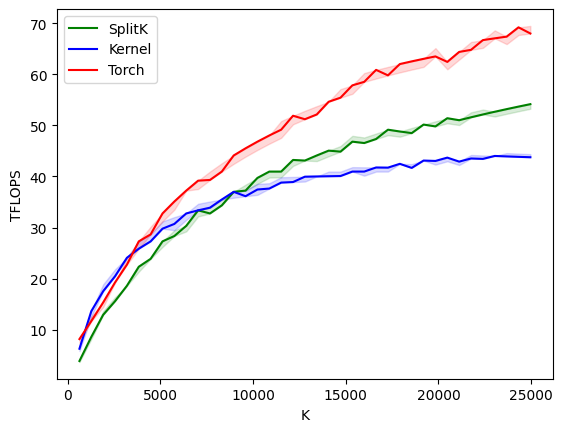
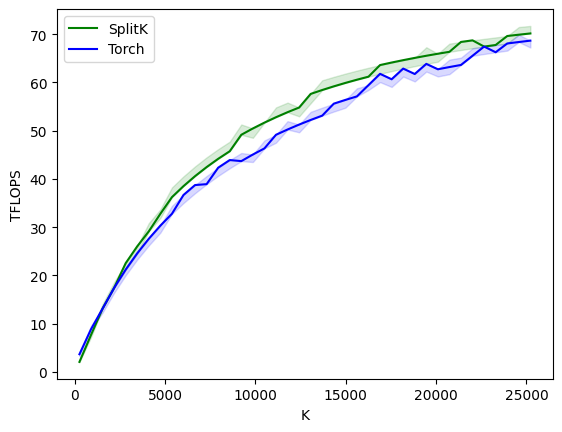
updated with better split k

diff --git a/split_k/split_k.py b/split_k/split_k.py
@@ -2,6 +2,7 @@ import torch
 import triton
 import triton.language as tl
 
+
 @triton.jit
 def _splitk_kernel(A, B, C, M, N, K,
             stride_am, stride_ak,
@@ -10,79 +11,67 @@ def _splitk_kernel(A, B, C, M, N, K,
             BLOCK_M: tl.constexpr, BLOCK_N: tl.constexpr, BLOCK_K: tl.constexpr,
             GROUP_M: tl.constexpr, SPLIT_K: tl.constexpr,
             ):
-    # matrix multiplication
-    pid = tl.program_id(0)
-    pid_k = tl.program_id(1)
-    grid_m = tl.cdiv(M, BLOCK_M)
-    grid_n = tl.cdiv(N, BLOCK_N)
-    # re-order program ID for better L2 performance
-    width = GROUP_M * grid_n
-    group_id = pid // width
-    group_size = min(grid_m - group_id * GROUP_M, GROUP_M)
-    pid_m = group_id * GROUP_M + (pid % group_size)
-    pid_n = (pid % width) // (group_size)
-    # do matrix multiplication
+    
+    """
+    Performs matrix multiplication using the split K algorithm.
+    C = A @ B
+
+    A: (M, K) input matrix
+    B: (K, N) input matrix
+    C: (M, N) output matrix
+    """
+    
+    pid_m = tl.program_id(0)
+    pid_n = tl.program_id(1)
+    num_pid_m, num_pid_n = tl.num_programs(1), tl.num_programs(2)
+    pid_m, pid_n = tl.swizzle2d(pid_m, pid_n, num_pid_m, num_pid_n, GROUP_M)
+    pid_k = tl.program_id(2)
+
     rm = pid_m * BLOCK_M + tl.arange(0, BLOCK_M)
     rn = pid_n * BLOCK_N + tl.arange(0, BLOCK_N)
-    ram = tl.max_contiguous(tl.multiple_of(rm % M, BLOCK_M), BLOCK_M)
-    rbn = tl.max_contiguous(tl.multiple_of(rn % N, BLOCK_N), BLOCK_N)
+    rm = tl.max_contiguous(tl.multiple_of(rm % M, BLOCK_M), BLOCK_M)
+    rn = tl.max_contiguous(tl.multiple_of(rn % N, BLOCK_N), BLOCK_N)
     rk = pid_k * BLOCK_K + tl.arange(0, BLOCK_K)
+    rk = tl.max_contiguous(tl.multiple_of(rk, BLOCK_K), BLOCK_K)
     # pointers
-    A = A + (ram[:, None] * stride_am + rk[None, :] * stride_ak)
-    B = B + (rk[:, None] * stride_bk + rbn[None, :] * stride_bn)
+    A = A + (rm[:, None] * stride_am + rk[None, :] * stride_ak)
+    B = B + (rk[:, None] * stride_bk + rn[None, :] * stride_bn)
     acc = tl.zeros((BLOCK_M, BLOCK_N), dtype=tl.float32)
-    incr = BLOCK_K*SPLIT_K
-    for k in range(0, tl.cdiv(K, incr)):
-        k_remaining = K - k * (incr)
+    for k in tl.range(0, tl.cdiv(K, BLOCK_K*SPLIT_K)):
+        k_remaining = K - k * (BLOCK_K*SPLIT_K)
         a = tl.load(A, mask=rk[None, :] < k_remaining, other=0.0)
         b = tl.load(B, mask=rk[:, None] < k_remaining, other=0.0)
         acc += tl.dot(a, b)
-        A += incr * stride_ak
-        B += incr * stride_bk
+        A += BLOCK_K*SPLIT_K * stride_ak
+        B += BLOCK_K*SPLIT_K * stride_bk
+
     acc = acc.to(C.dtype.element_ty)
-    # rematerialize rm and rn to save registers
-    rm = pid_m * BLOCK_M + tl.arange(0, BLOCK_M)
-    rn = pid_n * BLOCK_N + tl.arange(0, BLOCK_N)
     C = C + (rm[:, None] * stride_cm + rn[None, :] * stride_cn)
-    mask = (rm < M)[:, None] & (rn < N)[None, :]
-    if SPLIT_K == 1:
-        tl.store(C, acc, mask=mask)
-    else:
-      tl.atomic_add(C, acc, mask=mask)
+    tl.atomic_add(C, acc, sem="relaxed")
+
+def _zero_output(*args, **kwargs):
+    if kwargs["SPLIT_K"] != 1:
+      args[2].zero_()
+
+
+_splitk_kernel.add_pre_run_hook(_zero_output)
 
 
 def splitk_kernel(x, y):
     """
     Executes the _splitk_kernel using the split K algorithm
-    the output matrix must be provided in float16 as atomic adds do not
-    support bfloat16.
-    We also set the output to be zero rather than empty due to the atomic add
     """
     m, k = x.shape
     _, n = y.shape
-    z = torch.zeros((m, n), dtype=torch.float16, device=x.device)
-    grid = lambda meta: (triton.cdiv(m, meta['BLOCK_M'])*triton.cdiv(n, meta['BLOCK_N']), meta["SPLIT_K"])
+    z_dtype = torch.float32
+    if x.dtype == torch.float16 and y.dtype == torch.float16:
+        z_dtype = torch.float16
+    z = torch.empty((m, n), dtype=z_dtype, device=x.device)
+    grid = lambda meta: (triton.cdiv(m, meta['BLOCK_M']), triton.cdiv(n, meta['BLOCK_N']), meta["SPLIT_K"], )
     _splitk_kernel[grid](x, y, z,
                          m, n, k,
                          x.stride(0), x.stride(1), y.stride(0), y.stride(1), z.stride(0), z.stride(1),
-                         BLOCK_M=32, BLOCK_N=32, BLOCK_K=128, SPLIT_K=8,
-                         num_warps=4, num_stages=2,
-                         GROUP_M=8)
-    return z
-
-def normal_kernel(x, y):
-    """
-    Executes the _splitk_kernel with split K == 1
-    This executes it 'as normal', ie a simple block tiled algorithm
-    """
-    m, k = x.shape
-    _, n = y.shape
-    z = torch.empty((m, n), dtype=torch.float16, device=x.device)
-    grid = lambda meta: (triton.cdiv(m, meta['BLOCK_M'])*triton.cdiv(n, meta['BLOCK_N']), meta["SPLIT_K"])
-    _splitk_kernel[grid](x, y, z,
-                         m, n, k,
-                         x.stride(0), x.stride(1), y.stride(0), y.stride(1), z.stride(0), z.stride(1),
-                         BLOCK_M=32, BLOCK_N=32, BLOCK_K=256, SPLIT_K=1,
-                         num_warps=4, num_stages=6,
-                         GROUP_M=8)
+                         BLOCK_M=64, BLOCK_N=64, BLOCK_K=128, SPLIT_K=6,
+                         num_warps=4, num_stages=4,
+                         GROUP_M=4)
     return z

diff --git a/split_k/benchmark.py b/split_k/benchmark.py
@@ -1,19 +1,19 @@
 import torch
 import triton
-from .split_k import splitk_kernel, normal_kernel
+from .split_k import splitk_kernel
 
 DTYPE = torch.float16
 
-providers = ["SplitK", "Kernel","Torch"]
+providers = ["SplitK","Torch"]
 
 configs = [triton.testing.Benchmark(
             x_names=["V"],  # Argument names to use as an x-axis for the plot
-            x_vals=[128 * i for i in range(5, 200, 5)],  # Different possible values for `x_name`
+            x_vals=[128 * i for i in range(2, 200, 5)],  # Different possible values for `x_name`
             line_arg="provider",  # Argument name whose value corresponds to a different line in the plot
             # Possible values for `line_arg`
             line_vals=providers,
             line_names=providers,
-            styles=[("green", "-"), ("blue", "-"), ("red", "-")],
+            styles=[("green", "-"), ("blue", "-")],
             ylabel="TFLOPS",  # Label name for the y-axis
             plot_name="bench",
             args={"dtype": DTYPE},
@@ -30,11 +30,9 @@ def benchmark(V, provider, dtype):
       ms, min_ms, max_ms = triton.testing.do_bench(lambda: X@Y, quantiles=quantiles)
     if provider == "SplitK":
       ms, min_ms, max_ms = triton.testing.do_bench(lambda: splitk_kernel(X, Y), quantiles=quantiles)
-    if provider == "Kernel":
-      ms, min_ms, max_ms = triton.testing.do_bench(lambda: normal_kernel(X, Y), quantiles=quantiles)
 
     perf = lambda ms: (2 * M * W * V) * 1e-12 / (ms * 1e-3)
     return perf(ms), perf(max_ms), perf(min_ms)
 
 
-benchmark.run(show_plots=True, print_data=True)
+benchmark.run(show_plots=True, print_data=False)

diff --git a/split_k/README.md b/split_k/README.md
@@ -1,4 +1,4 @@
-# Split K Kernel (WIP)
+# Split K Kernel
 
 Split-K is an algorithm used in GPU matrix muliplications to gain more parallelism and
 can be effective in certain domains.
@@ -10,8 +10,6 @@ This may not allow for the best GPU utilisation, as a small number of thread blo
 Instead, each thead block could compute a _partial sum_ along the `K` dimension for their output block, and synchronise reducing their partial sums.
 There is an overhead added through the synchronisation, however that is often 'hidden' by the extra parallelism this brings.
 
-This does seem to be beneficial when `K` gets large (`> 10,000`). It beats a typical block tiled Triton kernel, however it is still behind regular torch and cuBLAS:
+This does seem to be beneficial as `K` scales larger. It beats a typical Triton tiled matrix multiplication as is on par with native PyTorch/cuBLAS:
 
 ![Plot of TFLOP/s, higher is better](plots/benchmark.png)
-
-WIP - I'd like to figure out what is the bottleneck with the Triton kernel's that is limiting it from reaching the same performance (or near same) as cuBLAS.
